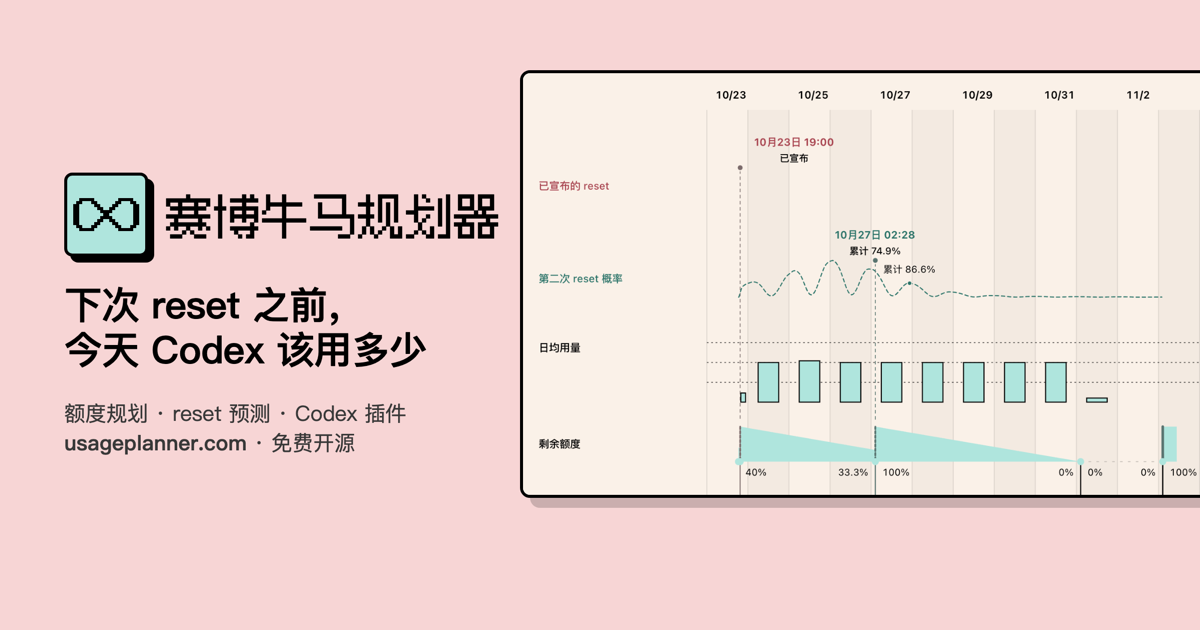
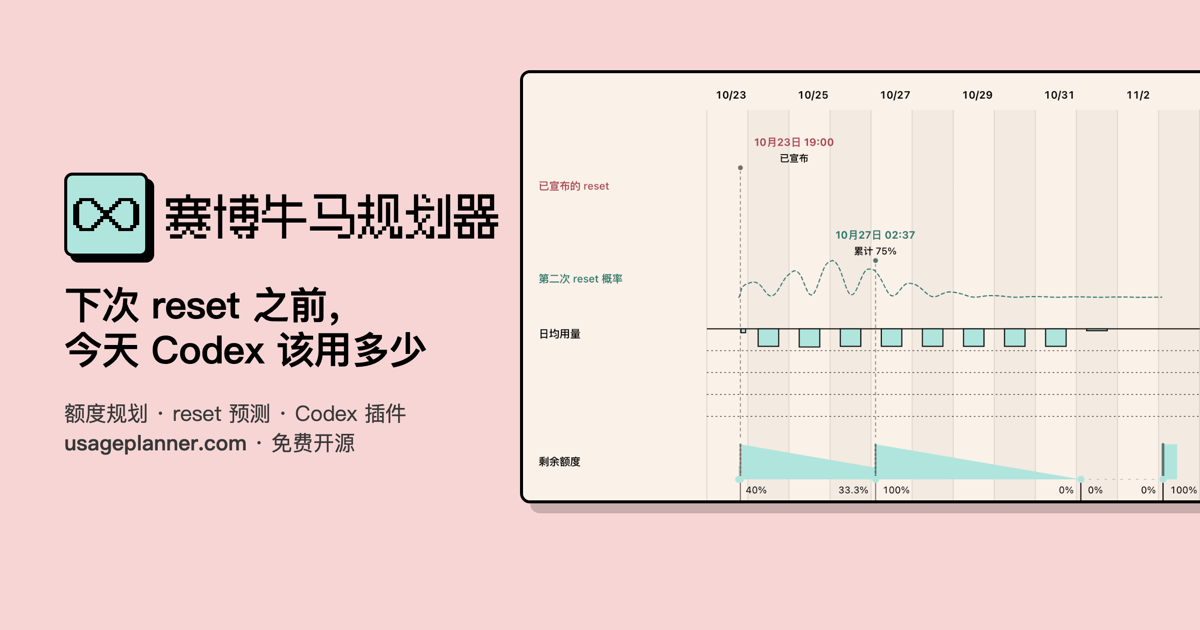
Hang daily usage bars from 0% on a fixed 0-100% scale
Every plan uses the same gridlines (0, 25, 50, 75, 100%), so a bar's depth
always means the same share of the quota. The lane sits closer to the
reset curves and is taller.

diff --git a/src/strategy-time-layout.js b/src/strategy-time-layout.js
@@ -137,7 +137,7 @@ export function layoutTimeStrategy(result, { prediction = null, viewportWidth,di
   const headingY = lastPlot ? lastPlot.bottomY+20 : forecastEndY + (forecastFocus ? 92 : 0) + 12;
   const phaseControls = [];
   const phaseWidth = 198;
-  const quotaThickness=40,labelGap=28,phaseY=headingY+28;
+  const quotaThickness=40,labelGap=28,phaseY=headingY+12;
   const restPeriods=(result.phasePlans??[]).filter(phase=>phase.plannedRest);
   const shownPhases=timelineUsagePhases(result.phasePlans??[],axis.xAtHours);
   for(const [index,phase] of shownPhases.entries()) {
@@ -155,26 +155,23 @@ export function layoutTimeStrategy(result, { prediction = null, viewportWidth,di
   }
   const opportunityHeight=Math.max(0,...phaseControls.map(phase=>phase.nextResetOpportunity
     ? resetOpportunityLayout(phase.width).height : 0));
-  const labelHeight=Math.max(72,20+(opportunityHeight ? 16+opportunityHeight : 0));
+  const labelHeight=Math.max(108,20+(opportunityHeight ? 16+opportunityHeight : 0));
   const centerY=phaseY+labelHeight+labelGap+quotaThickness;
   for(const phase of phaseControls)Object.assign(phase,{labelHeight,quotaAnchorY:centerY-quotaThickness});
   // One bar per calendar day: what the plan uses that day (today counts from
-  // now). A shared scale with a few gridlines reads the values, so no figure
-  // sits on any bar.
+  // now). Bars hang from a 0% line on a fixed 0-100% scale, the same for
+  // every plan, so a day's depth always means the same share of the quota.
   const usageOn=day=>(result.phasePlans??[]).reduce((sum,phase)=>sum+phase.dailyPercent
     *Math.max(0,Math.min(phase.endHours,day.endHours)-Math.max(phase.startHours,day.startHours,0))/24,0);
   const dayUsage=axis.days.map(day=>({day,percent:usageOn(day)}));
-  const largest=Math.max(0,...dayUsage.map(item=>item.percent));
-  const step=[5,10,20,25,50].find(size=>Math.ceil(largest/size)<=3)??50;
-  const scaleTop=Math.max(step,Math.ceil(largest/step-1e-9)*step);
-  const barBottom=phaseY+labelHeight,barSpace=labelHeight-4;
-  const yAt=percent=>barBottom-barSpace*percent/scaleTop;
+  const barTop=phaseY+4,barSpace=labelHeight-8;
+  const yAt=percent=>barTop+barSpace*Math.min(100,percent)/100;
   const usageScale={x1:axis.leftPadding,x2:axis.width-axis.padding,labelX:axis.width-axis.padding+4,
-    ticks:Array.from({length:Math.round(scaleTop/step)},(_,index)=>({percent:(index+1)*step,y:yAt((index+1)*step)}))};
+    ticks:[0,25,50,75,100].map(percent=>({percent,y:yAt(percent)}))};
   const dailyBars=dayUsage.filter(item=>item.percent>0.05).map(({day,percent})=>{
     const from=axis.xAtHours(Math.max(day.startHours,0)),to=day.x+day.width;
-    const width=Math.min(26,Math.max(4,(to-from)*.5)),height=Math.max(1,barBottom-yAt(percent));
-    return {x:(from+to)/2-width/2,y:barBottom-height,width,height,percent:Number(percent.toFixed(1)),startAt:day.startAt};
+    const width=Math.min(26,Math.max(4,(to-from)*.5)),height=Math.max(1,yAt(percent)-barTop);
+    return {x:(from+to)/2-width/2,y:barTop,width,height,percent:Number(percent.toFixed(1)),startAt:day.startAt};
   });
   const funnel = quotaFunnelGeometry(result.milestones, { centerY, xAtHours: axis.xAtHours,
     maxThickness:quotaThickness,terminalWidth: 16,restPeriods,shape:'area' });

diff --git a/src/strategy-tree-layout.js b/src/strategy-tree-layout.js
@@ -199,7 +199,7 @@ export function renderStrategyTree(graph, escape) {
     ${graph.dayAxis ? graph.dayAxis.days.filter((_,index)=>index%2).map(day => `<rect class="time-day-band" x="${day.x}" y="${graph.dayAxis.gridTop}" width="${graph.dayAxis.dayWidth}" height="${graph.dayAxis.gridBottom-graph.dayAxis.gridTop}"/>`).join('') : ''}
     ${graph.dayAxis ? [...graph.dayAxis.days.map(day => day.x), graph.dayAxis.days.at(-1).x + graph.dayAxis.dayWidth].map(x => `<path class="time-grid-line" d="M ${x} ${graph.dayAxis.gridTop} V ${graph.dayAxis.gridBottom}"/>`).join('') : ''}
     ${resetElements.map(element=>element.svg).join('')}
-    ${graph.usageScale ? graph.usageScale.ticks.map(tick=>`<path class="usage-gridline" d="M ${graph.usageScale.x1} ${tick.y} H ${graph.usageScale.x2}"/><text class="quota-label" x="${graph.usageScale.labelX}" y="${tick.y+4}">${tick.percent}%</text>`).join('') : ''}
+    ${graph.usageScale ? graph.usageScale.ticks.map(tick=>`<path class="${tick.percent ? 'usage-gridline' : 'usage-baseline'}" d="M ${graph.usageScale.x1} ${tick.y} H ${graph.usageScale.x2}"/><text class="quota-label" x="${graph.usageScale.labelX}" y="${tick.y+4}">${tick.percent}%</text>`).join('') : ''}
     ${(graph.dailyBars??[]).map(bar=>`<rect class="daily-bar" data-day="${bar.startAt}" data-percent="${bar.percent}" x="${bar.x}" y="${bar.y}" width="${bar.width}" height="${bar.height}"><title>${round(bar.percent)}%</title></rect>`).join('')}
     ${!graph.compactForecast && graph.forecastLayout?.length ? `<path class="time-forecast-line" d="M ${graph.forecastLayout[0].x} ${graph.dayAxis.forecastY} H ${graph.forecastLayout.at(-1).x}"/>${graph.forecastLayout.map(point => `<circle class="time-forecast-point" cx="${point.x}" cy="${graph.dayAxis.forecastY}" r="2.5"/>`).join('')}` : ''}
     ${graph.funnel.bands.map(band => `<g class="quota-phase${band.kind==='assumed-refresh' ? ' quota-phase-assumed' : ''}"${band.kind==='rest' ? ' data-quota-rest' : ''} data-start-quota="${band.startQuota}" data-end-quota="${band.endQuota}">

diff --git a/src/styles/retro-desktop.css b/src/styles/retro-desktop.css
@@ -440,3 +440,4 @@ html:lang(zh-CN) .brand h1, html:lang(zh-CN) .guide-page .brand a {font-size:24p
 /* Daily usage bars: the quota area's fill and outline, one bar per day. */
 .tree-edges .daily-bar {fill:var(--quota-fill-start);stroke:var(--quota-stroke);stroke-width:1.2}
 .tree-edges .usage-gridline {stroke:var(--divider);stroke-width:1;stroke-dasharray:2 3;opacity:.6}
+.tree-edges .usage-baseline {stroke:var(--quota-stroke);stroke-width:1.2}
